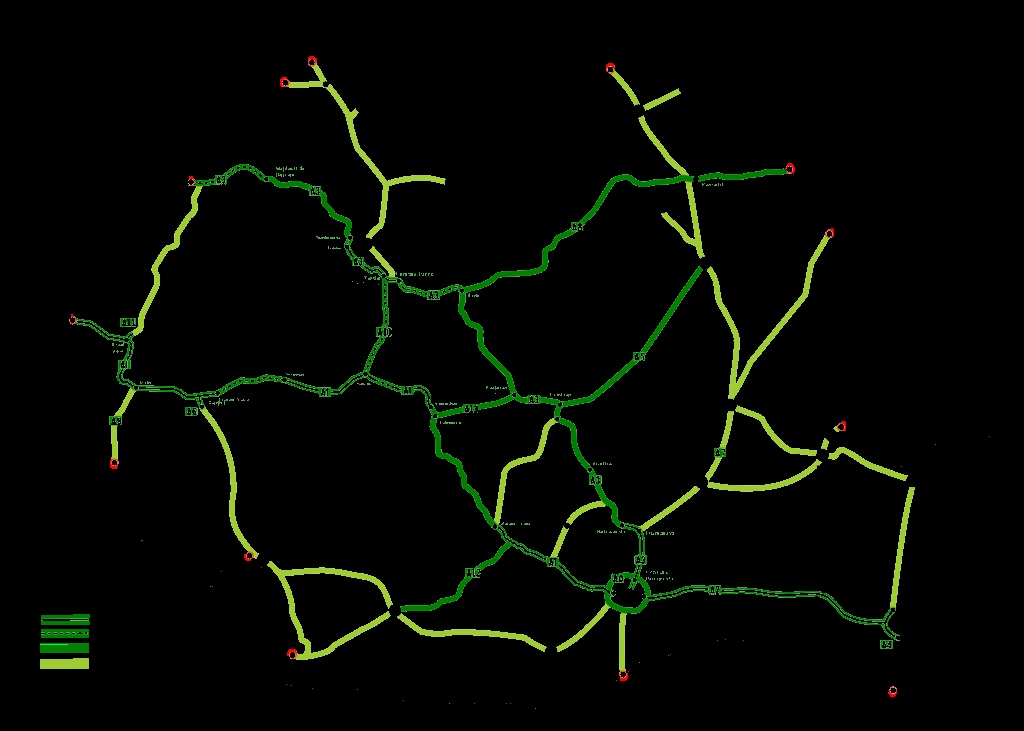
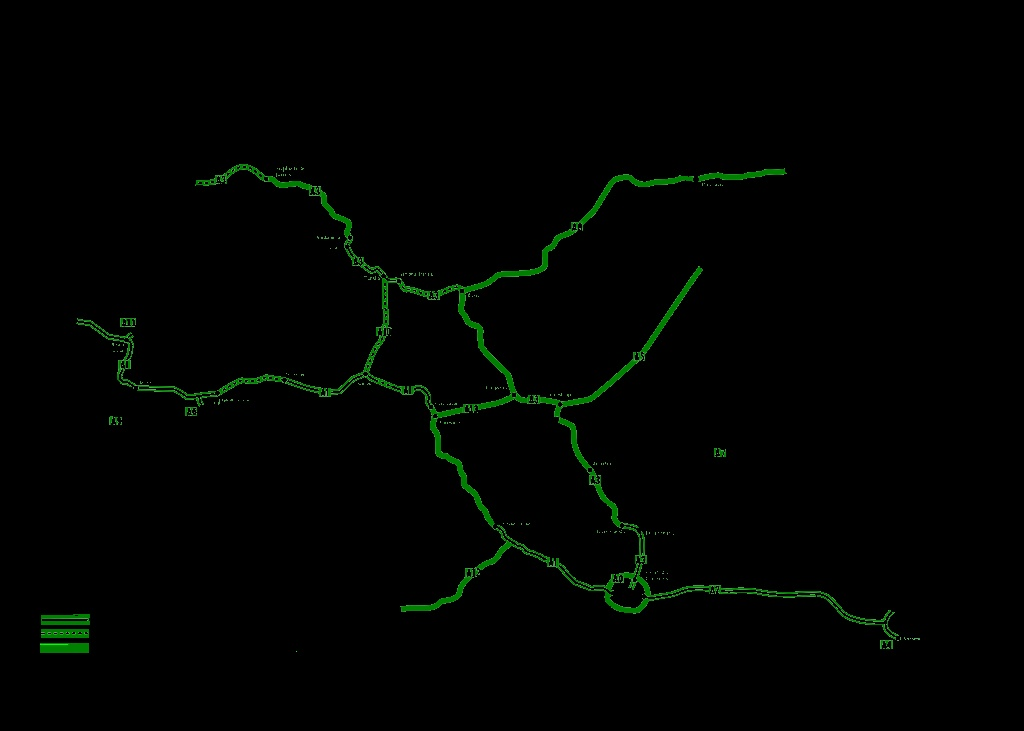
Fixed isolated extraction of motorways only feature.

diff --git a/ro_highways_map/data_to_extract/extract_highway_data.py b/ro_highways_map/data_to_extract/extract_highway_data.py
@@ -15,16 +15,17 @@ print_img_properties(rgb_img)
 
 hsv = cv2.cvtColor(rgb_img, cv2.COLOR_BGR2HSV)
 
-lower_green = np.array([0,100,100])
-upper_green = np.array([60, 255, 255])
-#
-# lower_green = np.array([120, 100, 50])
-# upper_green = np.array([130, 110, 55])
+# lower_green = np.array([0,100,100])
+# upper_green = np.array([60, 255, 255])
+
+# https://stackoverflow.com/questions/48109650/how-to-detect-two-different-colors-using-cv2-inrange-in-python-opencv
+lower_green = np.array([60, 120, 120])
+upper_green = np.array([70, 255, 255])
 
 mask = cv2.inRange(hsv, lower_green, upper_green)
 
 green = np.uint8([[[0,255,0 ]]])
-hsv_green = cv2.cvtColor(green,cv2.COLOR_BGR2HSV)
+hsv_green = cv2.cvtColor(green, cv2.COLOR_BGR2HSV)
 print(hsv_green)
 
 res = cv2.bitwise_and(rgb_img, rgb_img, mask=mask)
